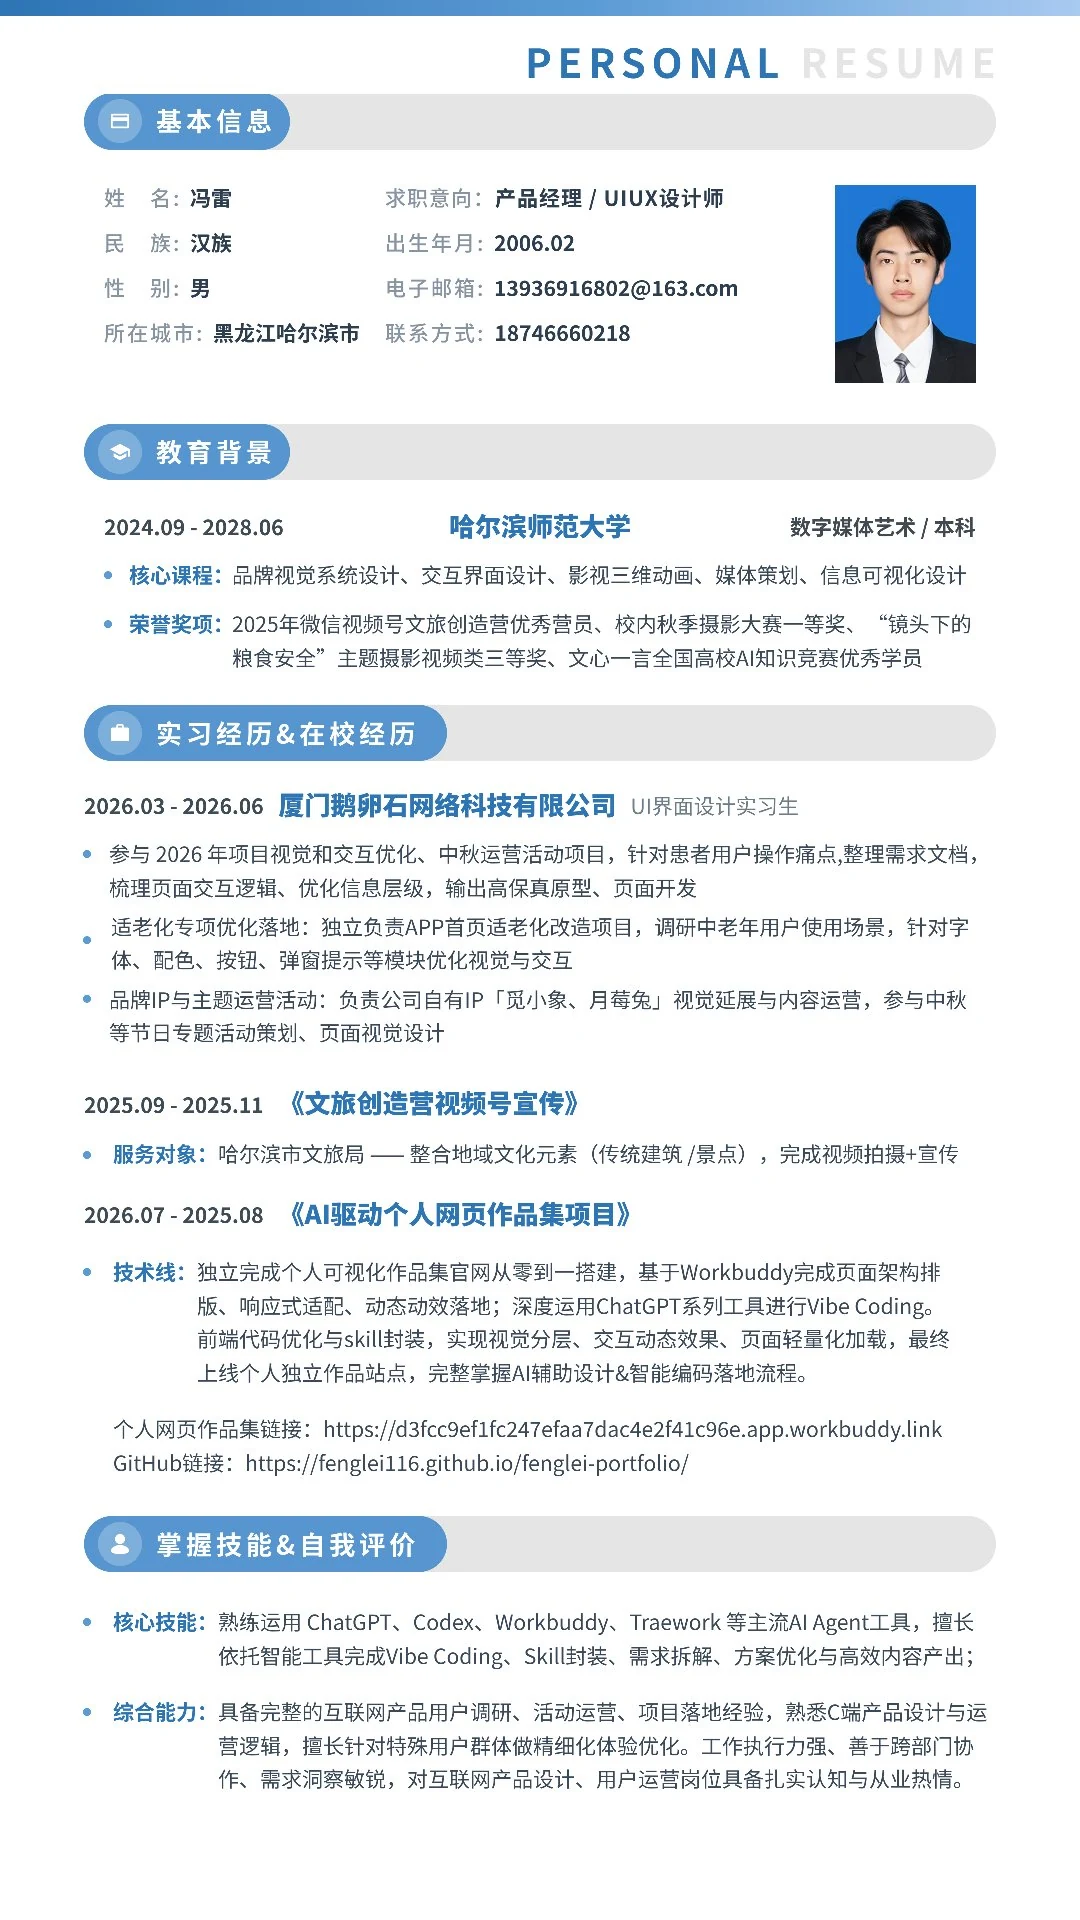
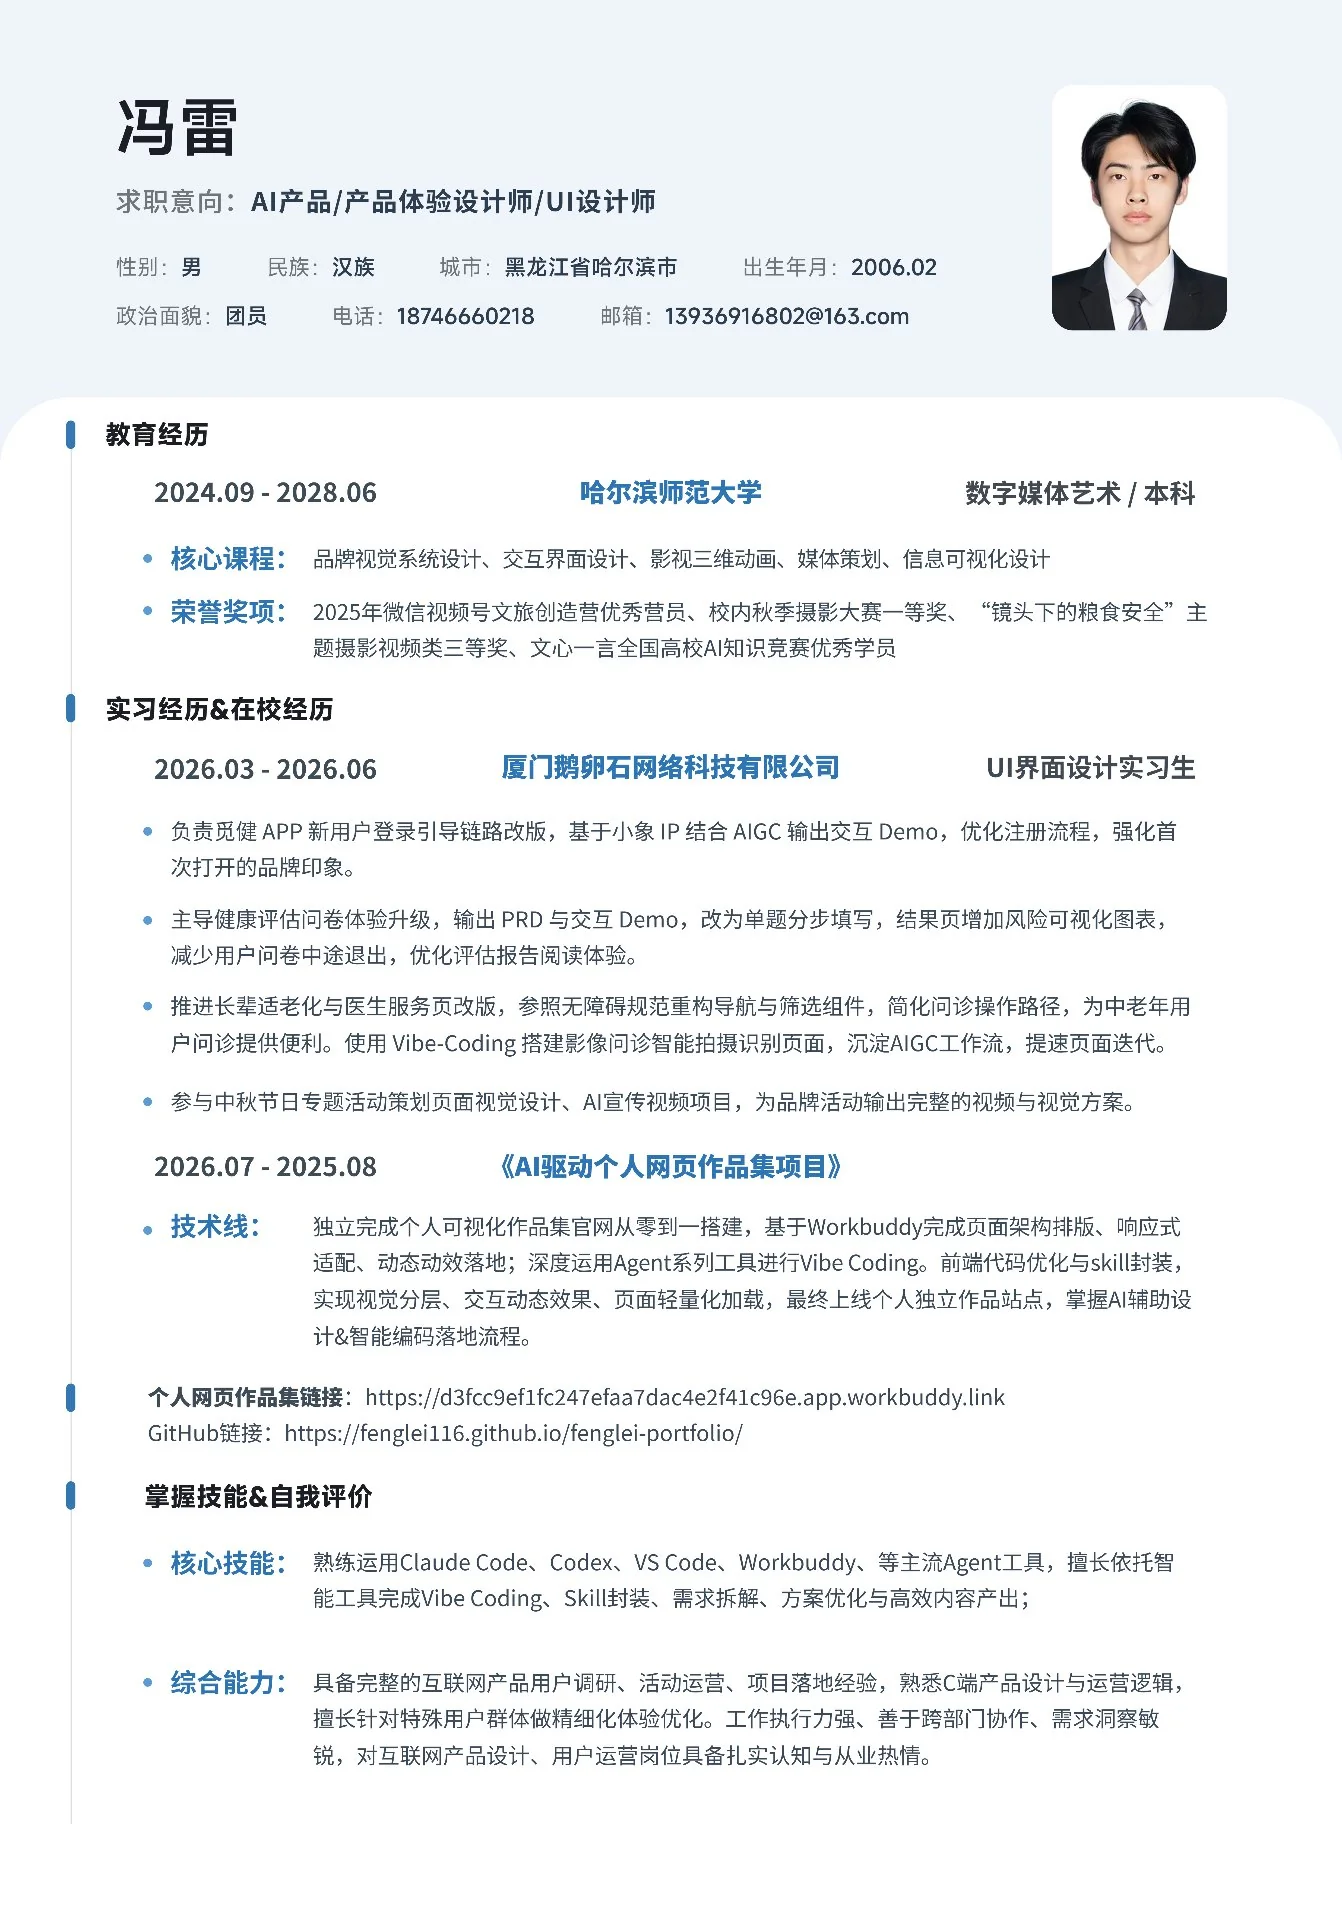
替换简历弹窗图：新简历页 + 个人作品页，更新缓存版本号

Changed region(s): [[0.0, 0.0, 1.0, 0.9375], [0.0306, 0.7188, 0.0611, 0.75]]

diff --git a/script.js b/script.js
@@ -166,8 +166,8 @@
   const resumeNext = document.getElementById('resumeNext')
   const resumeInfo = document.getElementById('resumeInfo')
   const RESUME_PAGES = [
-    'assets/resume/r-1.webp',
-    'assets/resume/r-2.webp',
+    'assets/resume/r-1.webp?v=20260921-2130',
+    'assets/resume/r-2.webp?v=20260921-2130',
   ]
   let resumePage = 1
   function showResumePage(n) {

diff --git a/index.html b/index.html
@@ -441,6 +441,6 @@
   <script src="vendor/gsap.min.js"></script>
   <script src="vendor/ScrollTrigger.min.js"></script>
   <script src="vendor/lenis.min.js"></script>
-  <script src="script.js?v=20260829-1121"></script>
+  <script src="script.js?v=20260921-2130"></script>
 </body>
 </html>
